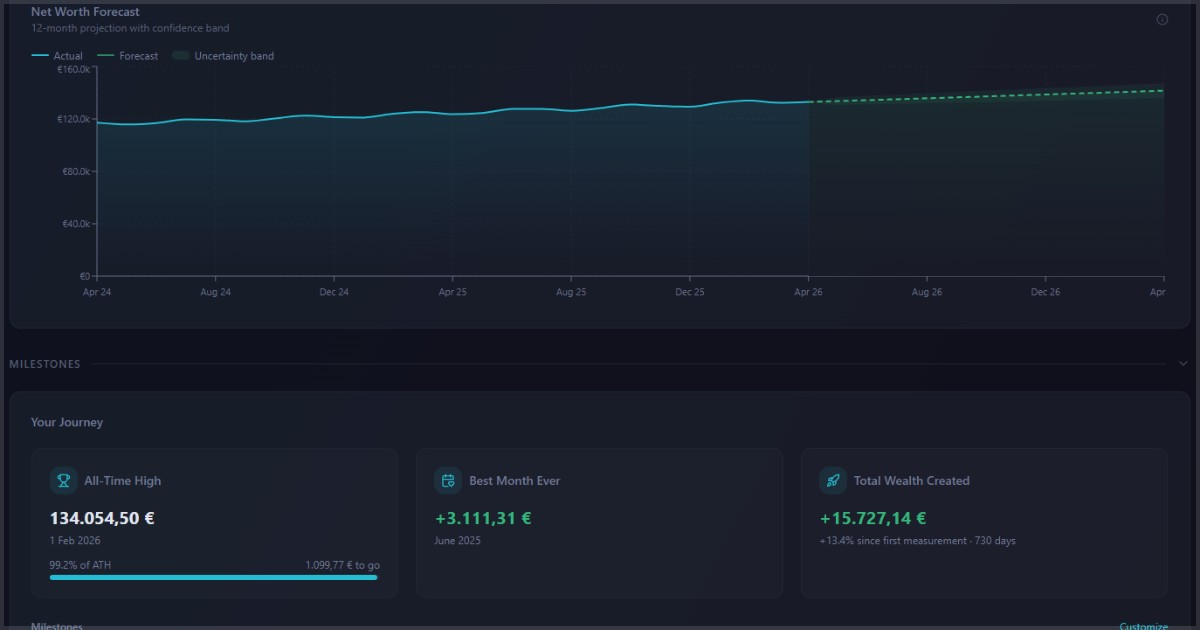
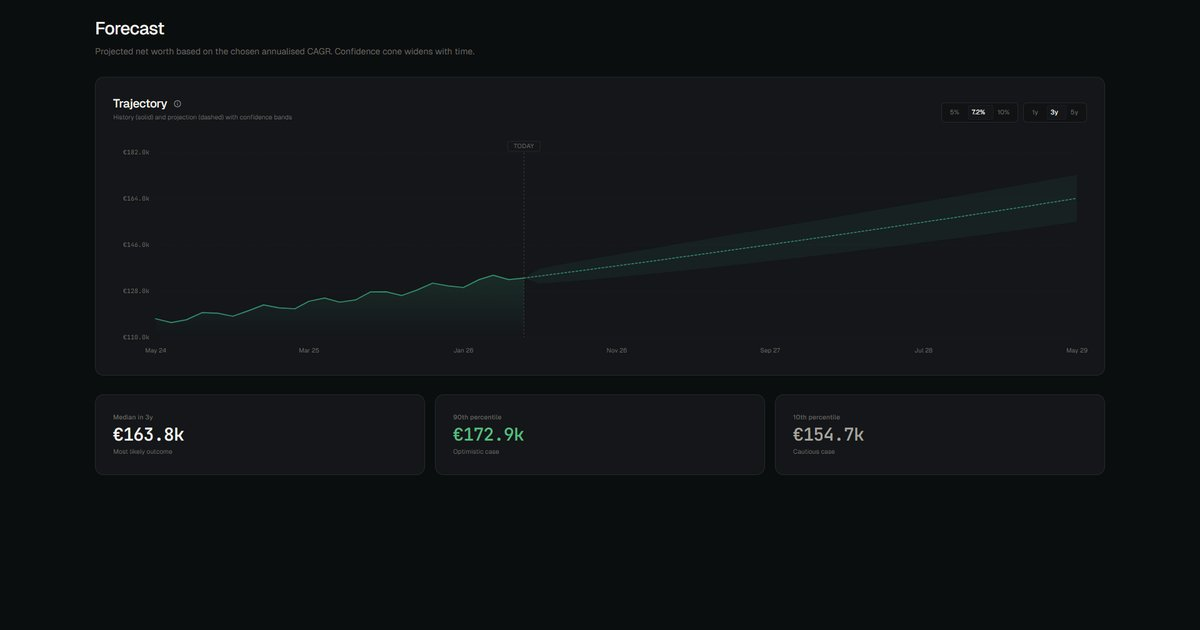
Phase 2: Fix og image

diff --git a/index.html b/index.html
@@ -29,7 +29,7 @@
     <meta property="og:image:type" content="image/jpeg" />
     <meta property="og:image:width" content="1200" />
     <meta property="og:image:height" content="630" />
-    <meta property="og:image:alt" content="Quantive dashboard showing a net worth forecast with milestones." />
+    <meta property="og:image:alt" content="Quantive forecast view — projected net worth trajectory with a confidence cone and three percentile outcomes." />
     <meta property="og:locale" content="en_US" />
 
     <!-- Twitter -->
@@ -37,7 +37,7 @@
     <meta name="twitter:title" content="Quantive – See Your Financial Life Clearly" />
     <meta name="twitter:description" content="A privacy-first finance cockpit. Upload your spreadsheet, track net worth, analyse allocations, and forecast your future. Free forever." />
     <meta name="twitter:image" content="https://usequantive.app/og-image.jpg" />
-    <meta name="twitter:image:alt" content="Quantive dashboard showing a net worth forecast with milestones." />
+    <meta name="twitter:image:alt" content="Quantive forecast view — projected net worth trajectory with a confidence cone and three percentile outcomes." />
 
     <!-- Structured Data -->
     <script type="application/ld+json">